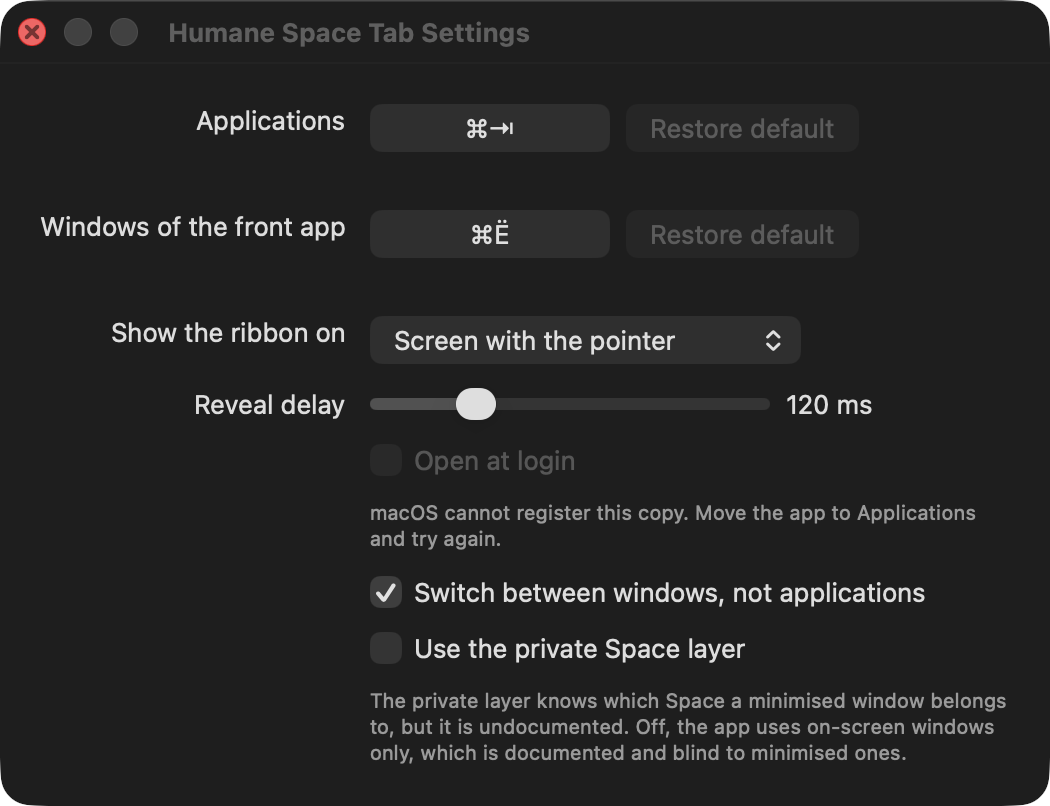
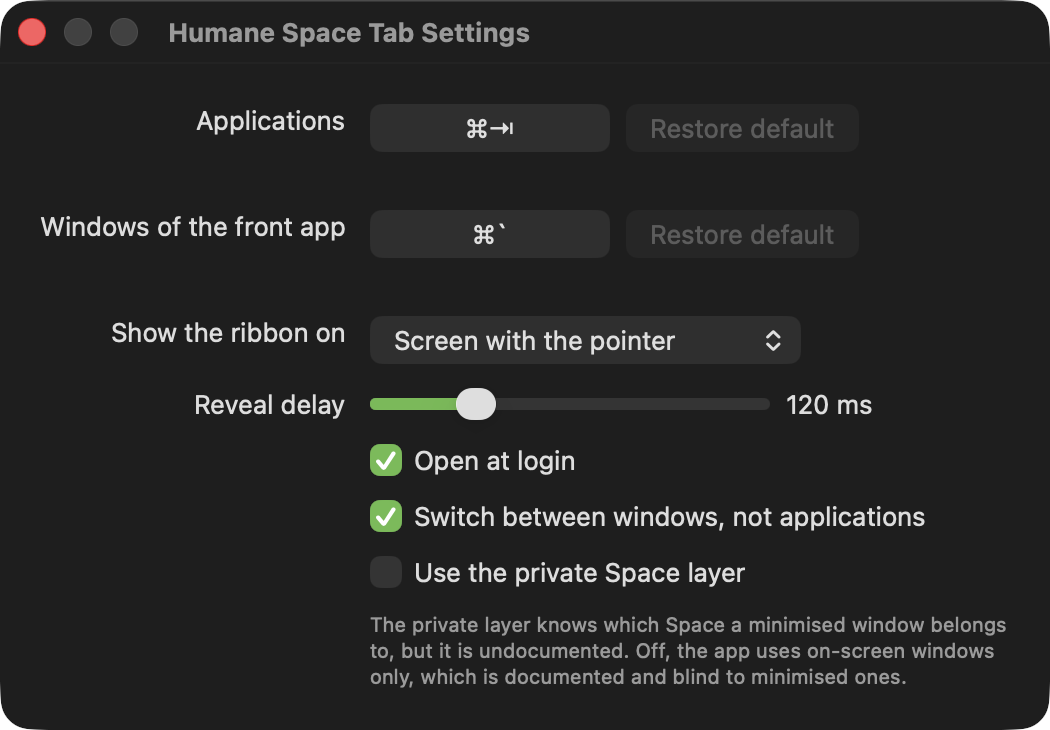
fix(login item): stop reading notFound as a refusal
SMAppService reports notFound for a copy it has never been asked to register.
The app read that as "macOS cannot register this copy" and disabled the
checkbox, so Open at login was dead on every fresh install — the state it is
in before anyone has ever turned it on.

Measured instead of assumed: an ad-hoc signed bundle reports notFound, then
register() succeeds and the status becomes enabled. So notFound maps to
notRegistered and the case is gone from the domain, along with the disabled
checkbox it justified.

A refusal is still possible, and now it is visible: the reason macOS gave sits
under the checkbox instead of the box springing back without a word.

diff --git a/Tests/SwitcherUITests/LoginItemTests.swift b/Tests/SwitcherUITests/LoginItemTests.swift
@@ -14,10 +14,11 @@ struct LoginItemTests {
         item.set(true)
         #expect(service.registered == 1)
         #expect(item.status == .enabled)
+        #expect(item.failure == nil)
         #expect(log.events.isEmpty)
     }
 
-    @Test("a refused registration keeps the state the system reports and is logged")
+    @Test("a refused registration keeps the state the system reports and says why")
     func reportsFailure() {
         let service = LoginItemServiceStub()
         service.fails = true
@@ -25,7 +26,19 @@ struct LoginItemTests {
         let item = LoginItem(service: service, log: log)
         item.set(true)
         #expect(item.status == .notRegistered)
+        #expect(item.failure?.isEmpty == false)
         #expect(log.events == [.loginItemChangeFailed])
+    }
+
+    @Test("a change that goes through clears the reason the last one failed")
+    func clearsFailure() {
+        let service = LoginItemServiceStub()
+        service.fails = true
+        let item = LoginItem(service: service, log: LogSpy())
+        item.set(true)
+        service.fails = false
+        item.set(true)
+        #expect(item.failure == nil)
     }
 
     @Test("turning it off unregisters the app")

diff --git a/Tests/SwitcherCoreTests/LoginItemStatusTests.swift b/Tests/SwitcherCoreTests/LoginItemStatusTests.swift
@@ -7,28 +7,18 @@ struct LoginItemStatusTests {
     @Test("a registered item reads as on and says nothing")
     func enabled() {
         #expect(LoginItemStatus.enabled.isOn)
-        #expect(LoginItemStatus.enabled.isEditable)
         #expect(LoginItemStatus.enabled.message == nil)
     }
 
     @Test("an unregistered item reads as off and says nothing")
     func notRegistered() {
         #expect(LoginItemStatus.notRegistered.isOn == false)
-        #expect(LoginItemStatus.notRegistered.isEditable)
         #expect(LoginItemStatus.notRegistered.message == nil)
     }
 
     @Test("an item waiting for approval reads as on and says where to approve it")
     func requiresApproval() {
         #expect(LoginItemStatus.requiresApproval.isOn)
-        #expect(LoginItemStatus.requiresApproval.isEditable)
         #expect(LoginItemStatus.requiresApproval.message?.contains("Login Items") == true)
-    }
-
-    @Test("a bundle macOS cannot register reads as off and cannot be toggled")
-    func notFound() {
-        #expect(LoginItemStatus.notFound.isOn == false)
-        #expect(LoginItemStatus.notFound.isEditable == false)
-        #expect(LoginItemStatus.notFound.message?.isEmpty == false)
     }
 }

diff --git a/Sources/SwitcherCore/LoginItemStatus.swift b/Sources/SwitcherCore/LoginItemStatus.swift
@@ -2,19 +2,14 @@ public enum LoginItemStatus: Sendable {
     case enabled
     case notRegistered
     case requiresApproval
-    case notFound
 
     /// Approval pending is not "off": macOS has accepted the registration and is only
     /// asking the user to confirm it once, and showing it off invites a second one.
     public var isOn: Bool {
         switch self {
         case .enabled, .requiresApproval: true
-        case .notRegistered, .notFound: false
+        case .notRegistered: false
         }
-    }
-
-    public var isEditable: Bool {
-        self != .notFound
     }
 
     public var message: String? {
@@ -22,8 +17,6 @@ public enum LoginItemStatus: Sendable {
         case .enabled, .notRegistered: nil
         case .requiresApproval:
             "Waiting for approval in System Settings › General › Login Items."
-        case .notFound:
-            "macOS cannot register this copy. Move the app to Applications and try again."
         }
     }
 }

diff --git a/Sources/SwitcherUI/LoginItem.swift b/Sources/SwitcherUI/LoginItem.swift
@@ -8,6 +8,10 @@ public final class LoginItem {
 
     public var status: LoginItemStatus { service.status }
 
+    /// What the system said when it last refused, kept so the window can show a reason
+    /// instead of a checkbox that silently springs back.
+    public private(set) var failure: String?
+
     public init(service: any LoginItemService, log: any LogSink) {
         self.service = service
         self.log = log
@@ -22,7 +26,9 @@ public final class LoginItem {
             } else {
                 try service.unregister()
             }
+            failure = nil
         } catch {
+            failure = "macOS refused: \(error.localizedDescription)"
             log.record(.loginItemChangeFailed)
         }
     }

diff --git a/Sources/SystemAdapters/SMAppServiceLoginItem.swift b/Sources/SystemAdapters/SMAppServiceLoginItem.swift
@@ -10,11 +10,13 @@ public final class SMAppServiceLoginItem: LoginItemService {
         self.service = service
     }
 
+    /// `notFound` is what the system reports for a copy it has never been asked to register —
+    /// not a refusal. Registering out of it succeeds, so it means the same thing here as
+    /// `notRegistered`: off, and free to turn on.
     public var status: LoginItemStatus {
         switch service.status {
         case .enabled: .enabled
         case .requiresApproval: .requiresApproval
-        case .notFound: .notFound
         default: .notRegistered
         }
     }

diff --git a/Sources/SwitcherUI/PreferencesFormView.swift b/Sources/SwitcherUI/PreferencesFormView.swift
@@ -96,10 +96,10 @@ final class PreferencesFormView: NSView {
 
     private func showLoginItem() {
         let status = loginItem.status
+        let note = loginItem.failure ?? status.message
         launch.state = status.isOn ? .on : .off
-        launch.isEnabled = status.isEditable
-        launchNote.stringValue = status.message ?? ""
-        launchNoteRow?.isHidden = status.message == nil
+        launchNote.stringValue = note ?? ""
+        launchNoteRow?.isHidden = note == nil
         window?.setContentSize(fittingSize)
     }
 

diff --git a/docs/specs/S09-launch-at-login.md b/docs/specs/S09-launch-at-login.md
@@ -28,14 +28,19 @@ can revoke a login item in System Settings without ever opening our window. So t
 checkbox reflects `SMAppService.mainApp.status` every time the window opens, and the
 preference file has no key for it.
 
-`LoginItemStatus` maps the four system answers onto what the window has to do:
+`LoginItemStatus` maps the system's answers onto what the window has to do:
 
 | Status | Checkbox | What the window says |
 |---|---|---|
 | `enabled` | on | nothing |
 | `notRegistered` | off | nothing |
 | `requiresApproval` | on | the item is waiting for approval in System Settings › General › Login Items |
-| `notFound` | off, disabled | the bundle is not in a place macOS can register — move it to Applications |
+
+`notFound` is not a fourth case. The system reports it for a copy it has never been
+asked to register, and registering out of it succeeds — so it means `notRegistered`
+here. Treating it as "macOS cannot register this copy" and disabling the checkbox is
+what the app did until it was measured, and it kept the feature off for every fresh
+install.
 
 `requiresApproval` is not an error: macOS has accepted the registration and is asking the
 user to confirm it once. Showing it as "off" would invite a second registration that
@@ -44,9 +49,10 @@ changes nothing.
 ### Failure is reported, not swallowed
 
 `register()` and `unregister()` throw. A throw means the checkbox goes back to what the
-system says rather than to what the user clicked, and the log records it. The app has no
-other way to tell the user, and silently drawing a checked box for a registration that did
-not happen is the one outcome worth avoiding.
+system says rather than to what the user clicked, the log records it, and the message row
+carries the system's own reason. Silently drawing a checked box for a registration that
+did not happen is the one outcome worth avoiding; a checkbox that springs back without a
+word is the next one.
 
 ### The window follows the message
 
@@ -61,7 +67,7 @@ the height the window was given when it opened.
 - [ ] Turning it on registers the app; turning it off unregisters it; both survive a relaunch.
 - [ ] `requiresApproval` reads as on, with a line telling the user where to approve it.
 - [ ] A failed register or unregister leaves the checkbox showing the system's state and is logged.
-- [ ] The status mapping is unit-tested for all four system answers.
+- [ ] The status mapping is unit-tested for every system answer.
 - [ ] The Release bundle still declares zero entitlements and links no non-system library beyond `ServiceManagement`.
 
 ## Test cases
@@ -71,9 +77,10 @@ the height the window was given when it opened.
 | 1 | status mapping, `enabled` | on, no message |
 | 2 | status mapping, `notRegistered` | off, no message |
 | 3 | status mapping, `requiresApproval` | on, approval message |
-| 4 | status mapping, `notFound` | off, disabled, relocation message |
+| 4 | status mapping, `notFound` | off, editable — the same as `notRegistered` |
 | 5 | toggling on, service succeeds | register called once, state re-read |
-| 6 | toggling on, service throws | no crash, state re-read, failure logged |
+| 6 | toggling on, service throws | no crash, state re-read, failure logged and shown |
+| 8 | a change that goes through after a refusal | the reason disappears |
 | 7 | toggling off, service succeeds | unregister called once, state re-read |
 
 ## Manual runbook
@@ -85,8 +92,8 @@ the height the window was given when it opened.
 3. Log out and back in → expected: the app is running, its menu bar item is present, and
    the checkbox is still on.
 4. Turn it off, log out and back in → expected: the app does not start.
-5. Run the bundle from a Downloads folder instead → expected: either it registers normally
-   or the window says the bundle has to move, and nothing crashes.
+5. Run the bundle from a Downloads folder instead → expected: it registers, or the window
+   shows the reason macOS gave for refusing, and nothing crashes.
 
 ## Risks and open questions
 

diff --git a/docs/guide.md b/docs/guide.md
@@ -114,9 +114,11 @@ back into the app; the tap is rebuilt without a relaunch.
 the previous build. Use **Grant Accessibility…**, and if the list already has an entry for
 the app, remove it with **−** and grant it again.
 
-**"macOS cannot register this copy" under "Open at login".** `SMAppService` refuses to
-register the bundle; a copy built locally and launched from several build directories runs
-into it. Known and unresolved — the rest of the app is unaffected.
+**"Open at login" does not stick.** If macOS refuses the registration it says so under the
+checkbox, in its own words. The usual reason is a build the system does not recognise:
+every local build carries its own ad-hoc signature, so a registration made by yesterday's
+copy does not belong to today's. Turn it off and on again on the copy that is in
+`/Applications`.
 
 ## What the app can see
 

diff --git a/CHANGELOG.md b/CHANGELOG.md
@@ -44,11 +44,5 @@ Space, and nothing else.
   Monitoring. Window titles are read only while window switching is on, and only to be
   drawn.
 
-### Known issues
-
-- **Open at login is refused on some copies.** `SMAppService` reports the bundle as
-  unregistrable and the checkbox stays disabled with that message. Nothing else is
-  affected.
-
 [Unreleased]: https://github.com/n0sfer/humane-space-tab/compare/v0.1.0...HEAD
 [0.1.0]: https://github.com/n0sfer/humane-space-tab/releases/tag/v0.1.0
